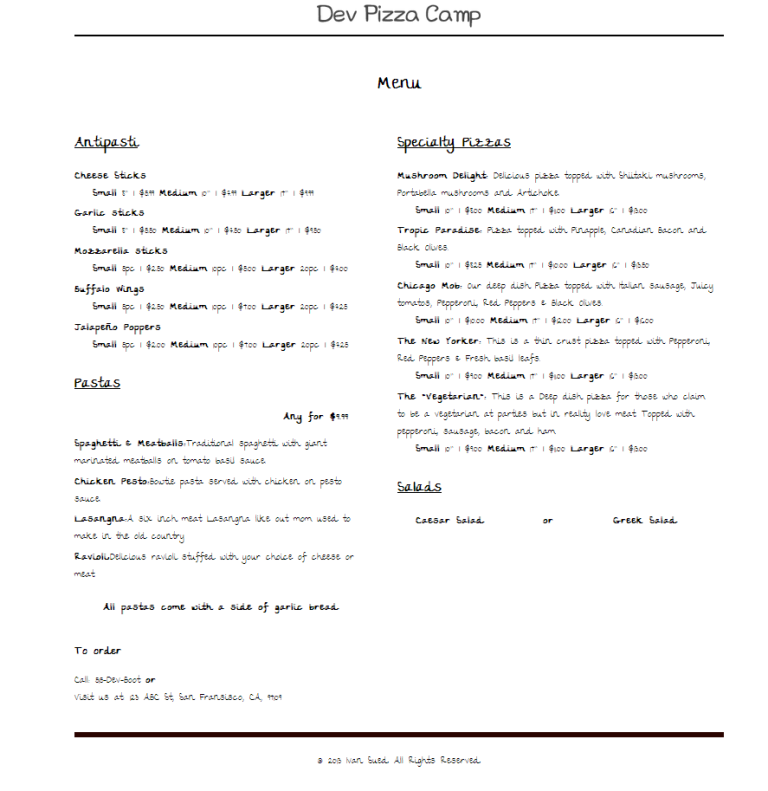
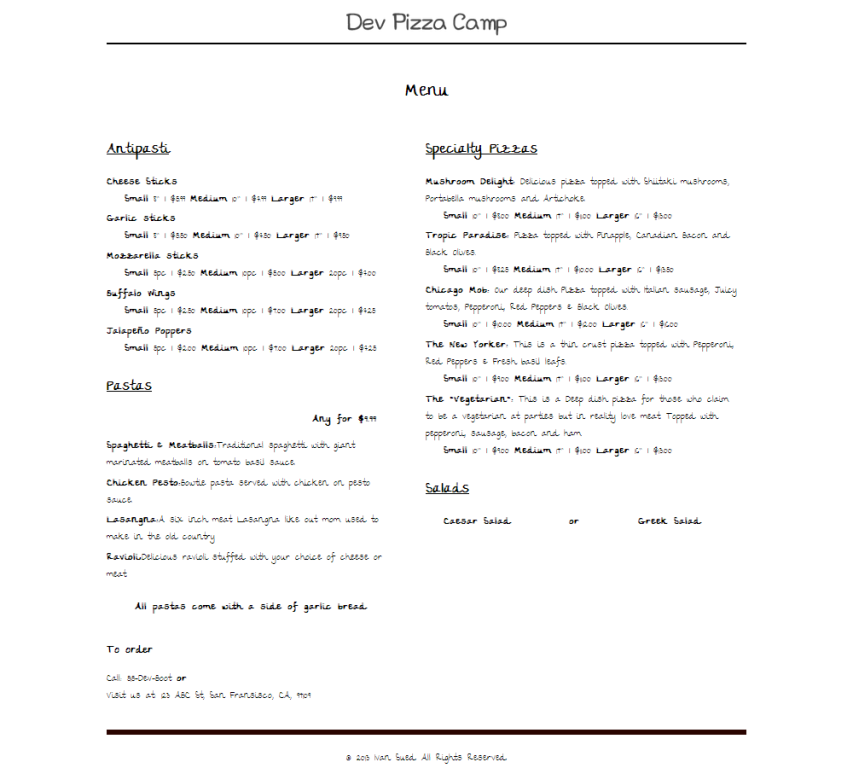
Change cholor scheme to something more neutral

diff --git a/css/mysite.css b/css/mysite.css
@@ -185,39 +185,39 @@ COLORS
 
 /* site body */
 body {
-  background-color: #fff;
-  color: #999;
+  background-color: #E0E0E0;
+  color: #0f0f0f;
 }
 
 /* green header */
 header {
-  background: #6ab47b;
-  border-color: #599a68;
+  background: #000;
+  border-color: #808080;
 }
 
 /* nav background on mobile */
 nav {
-  background: #599a68;
+  background: #808080;
 }
 
 /* logo text */
 h1, h2 {
-  color: #fff;
+  color: #E0E0E0;
 }
 
 /* links */
 a {
-  color: #6ab47b;
+  color: #000;
 }
 
 /* nav link */
 nav a, nav a:visited {
-  color: #fff;
+  color: #E0E0E0;
 }
 
 /* selected nav link */
 nav a.selected, nav a:hover {
-  color: #32673f;
+  color: #fff;
 }
 
 
